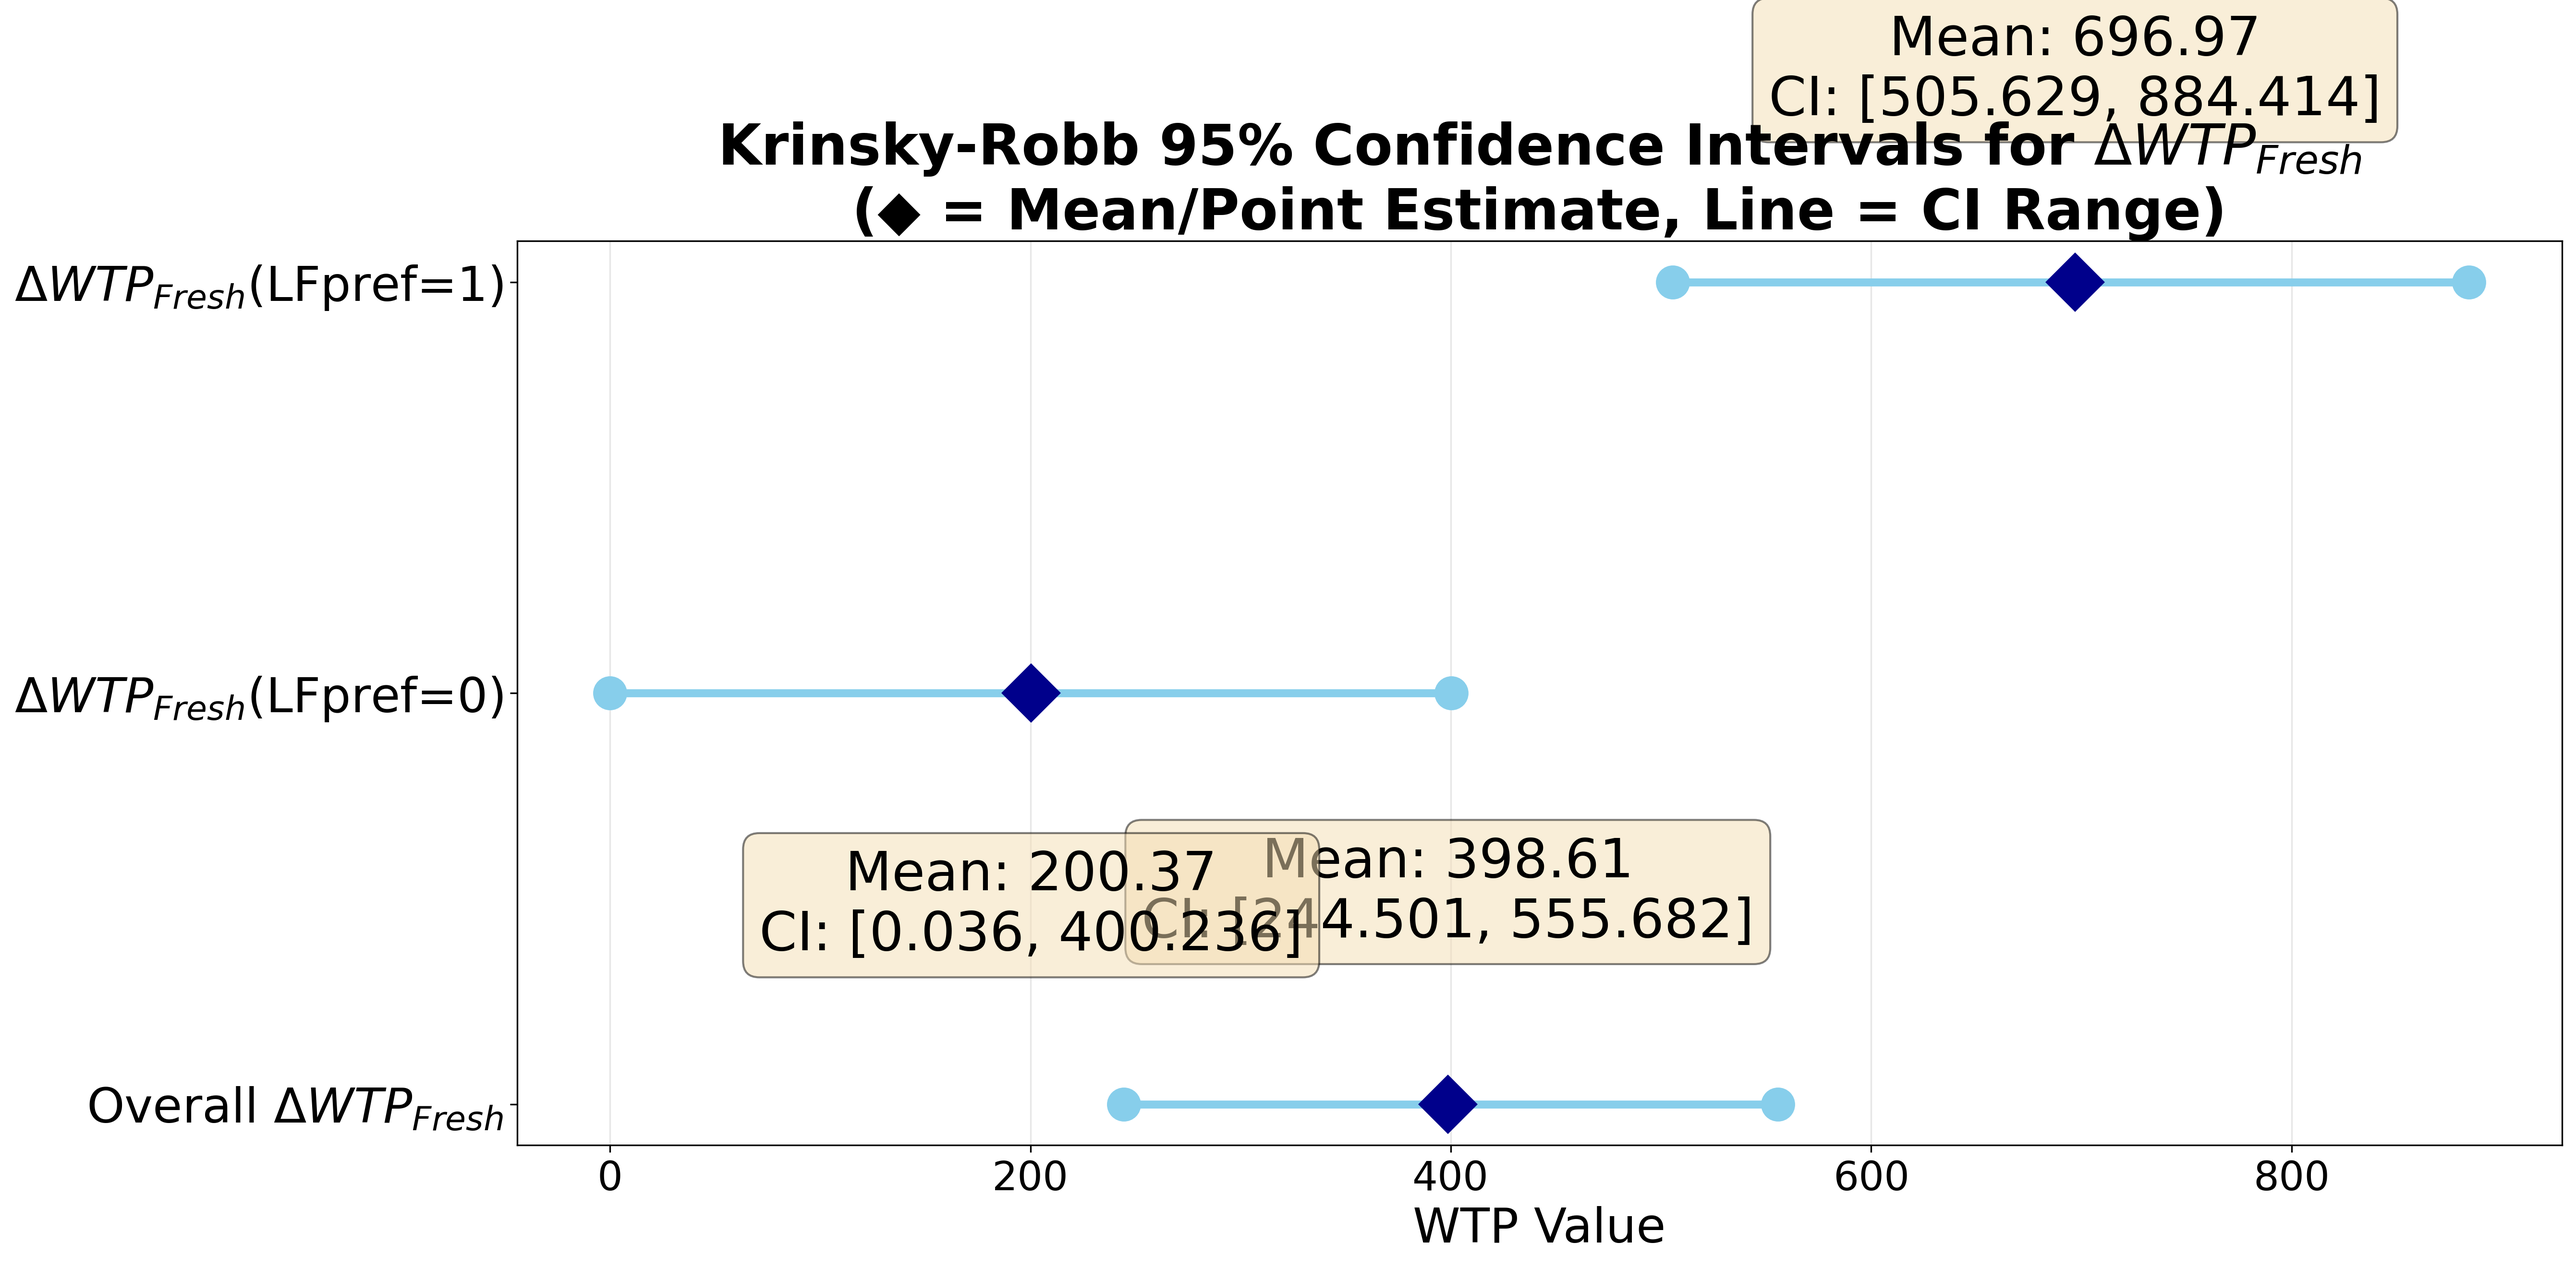
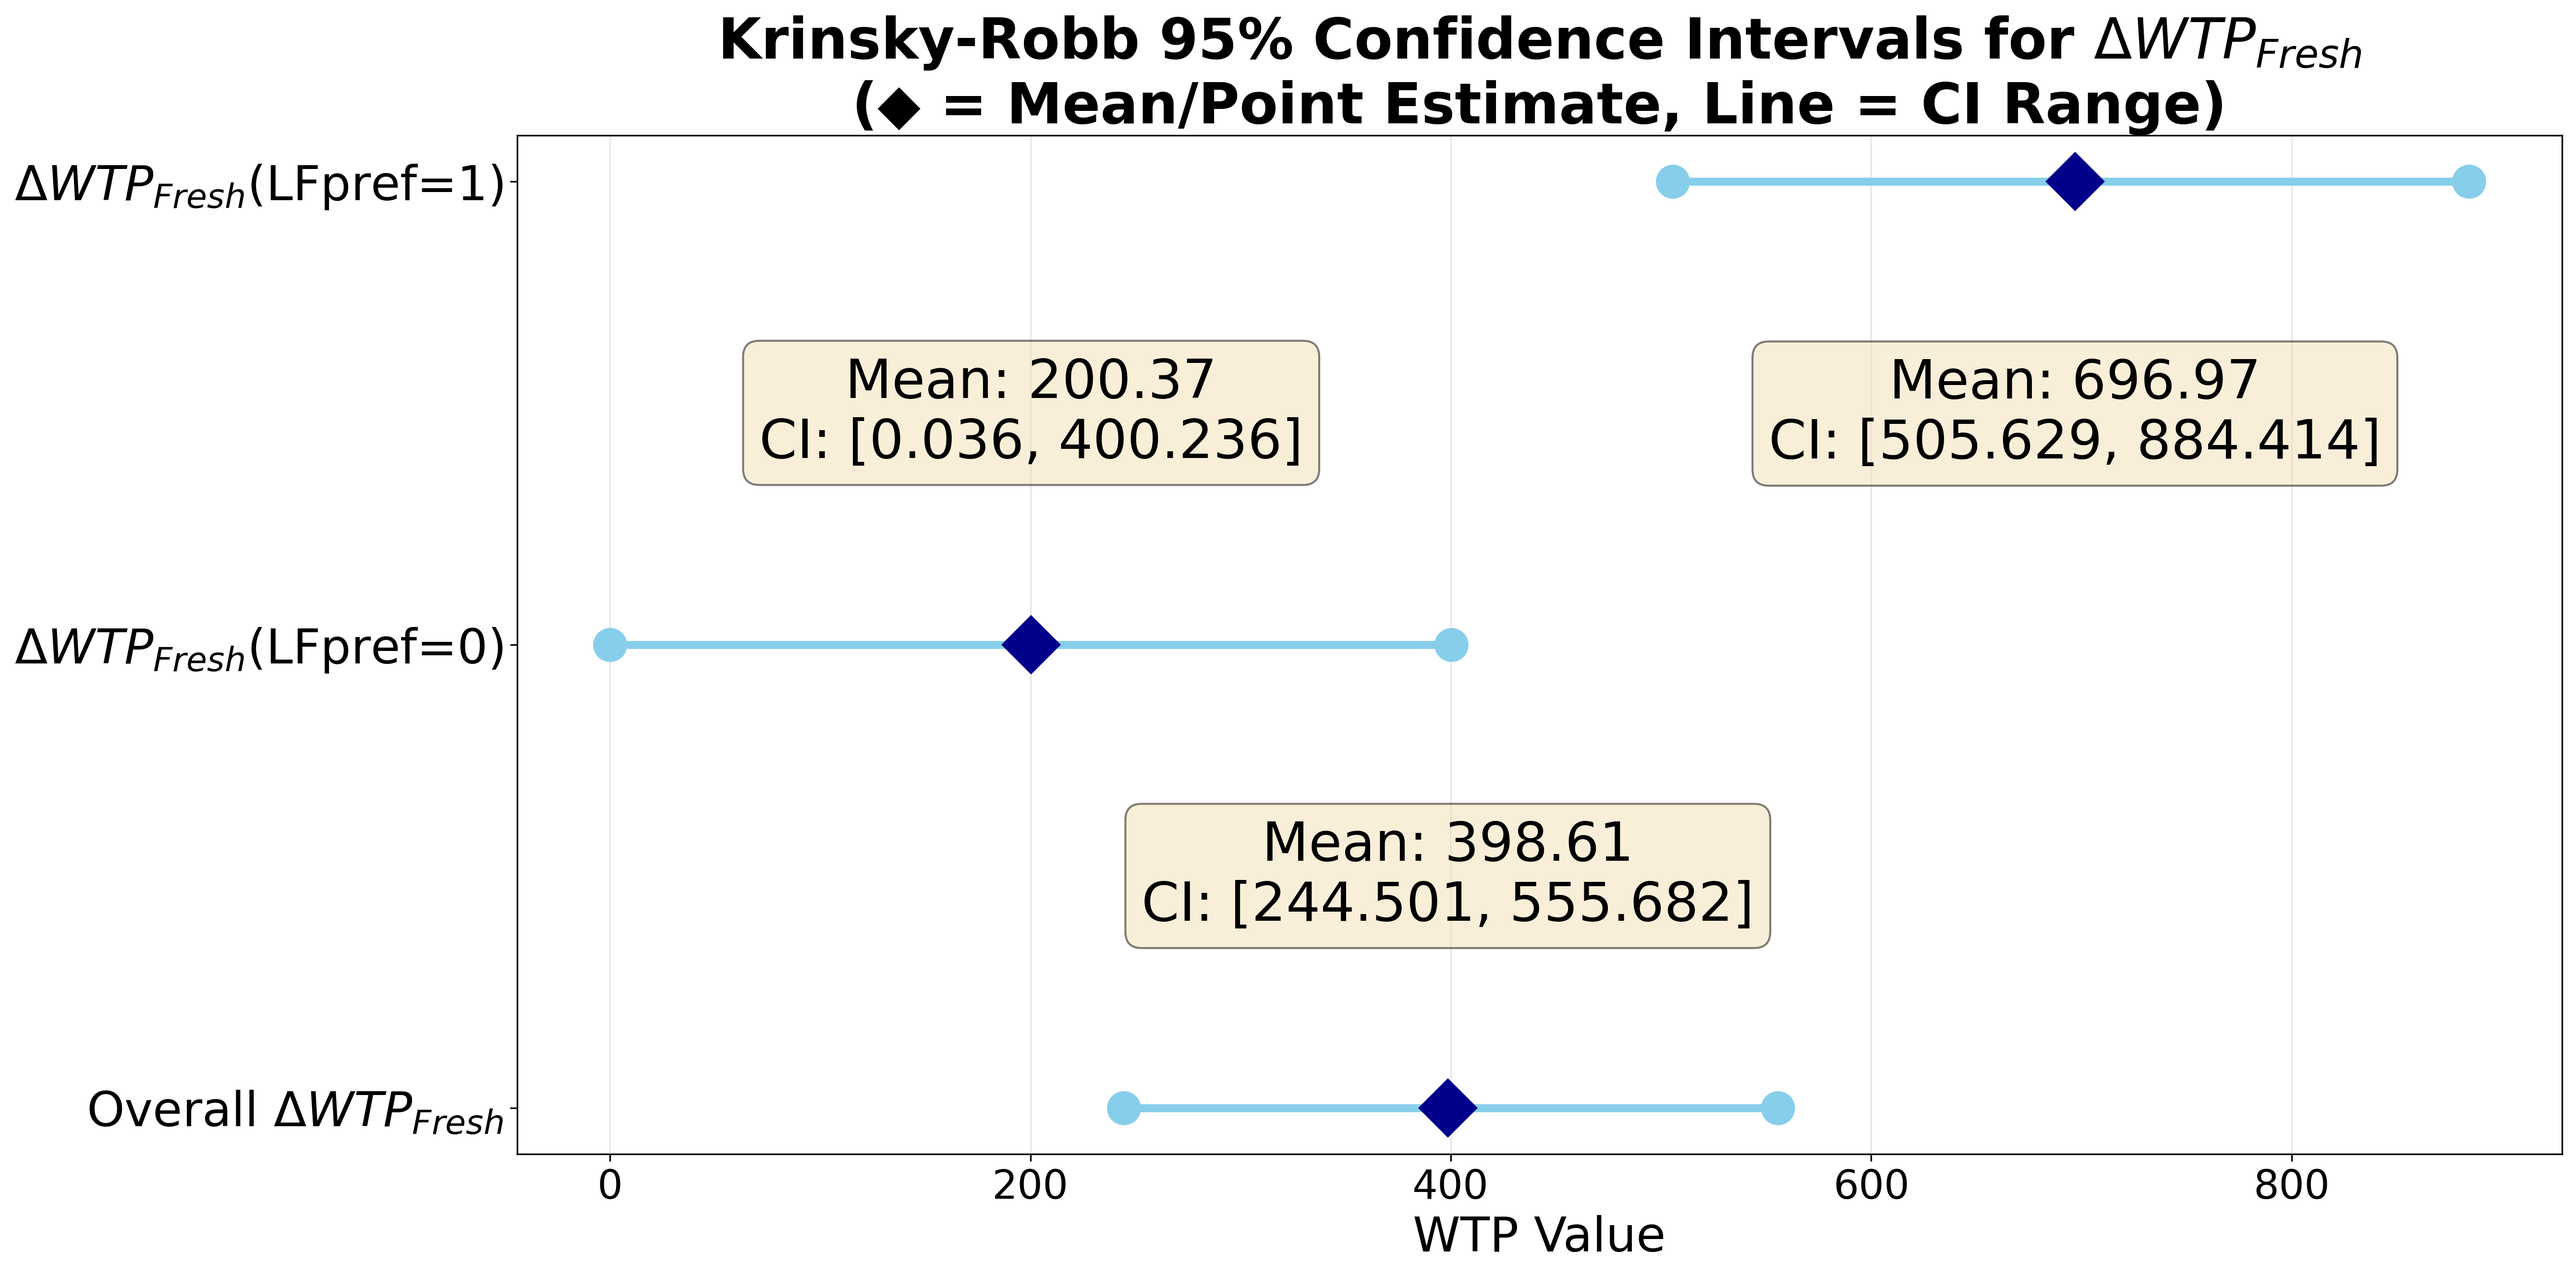
Fix annotation positioning to prevent text overlap
- Overall (top row): annotation above point
- LFpref=0 (middle row): annotation above point
- LFpref=1 (bottom row): annotation below point
- Ensures no overlap between annotations and prevents text from colliding

diff --git a/wtp_analysis.py b/wtp_analysis.py
@@ -89,11 +89,11 @@ def plot_confidence_intervals(df, output_file='wtp_confidence_intervals.png'):
         ax.plot(mean, i, 'D', color='darkblue', markersize=20)
 
         # Add text annotation below or above the mean point to avoid overlap
-        if i == 1:  # Middle row - place below
+        if i == 2:  # Bottom row (LFpref=1) - place below
             ax.text(mean, i - 0.38, f'Mean: {mean:.2f}\nCI: [{lower:.3f}, {upper:.3f}]',
                     ha='center', va='top', fontsize=27,
                     bbox=dict(boxstyle='round', facecolor='wheat', alpha=0.5))
-        else:  # Top and bottom rows - place above
+        else:  # Top rows (Overall and LFpref=0) - place above
             ax.text(mean, i + 0.38, f'Mean: {mean:.2f}\nCI: [{lower:.3f}, {upper:.3f}]',
                     ha='center', va='bottom', fontsize=27,
                     bbox=dict(boxstyle='round', facecolor='wheat', alpha=0.5))
